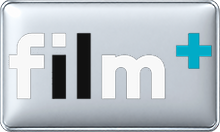
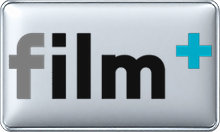
Repair five more BLACK/WHITE variants

Changed region(s): [[0.4364, 0.3939, 0.7636, 0.7576], [0.0273, 0.2424, 0.3, 0.7576]]

diff --git a/reports/black-white-qc-2026-10-09/batch-008/checkpoint.md b/reports/black-white-qc-2026-10-09/batch-008/checkpoint.md
@@ -1,0 +1,7 @@
+# BLACK/WHITE QC batch 008
+
+- Remote baseline: batch 007 commit `a2a09fb54f169b24ef5ea9821875bf109bdf436d`.
+- Repaired 5 variants: D24 HD BLACK/WHITE, Strike TV WHITE (freesat path, visually confirmed as STRIKE TV), TV5 Monde Pacifique WHITE and Film+ WHITE.
+- Film+ cyan plus was excluded; TV5 PACIFIQUE was excluded. D24 was adjusted hue-preservingly as one monochromatic blue mark.
+- Rebuilt from in-memory source masks with the pinned renderer and MASTERs. Transparent sources and templates remain unchanged.
+- See per-file audit and comparison. Next: continue flagged candidates.
